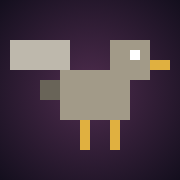
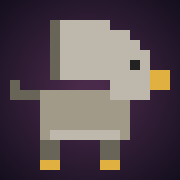
Guardiões com visuais próprios: Grifo (leão-águia), Basilisco (lagarto de cristal), Leviatã (monstro do mar) e Espírito do Vitral (janela colorida)
Claude-Session: https://claude.ai/code/session_01YBA9s8XnYJneddHbd6xUF3

diff --git a/js/02-estado-som-sprites.js b/js/02-estado-som-sprites.js
@@ -1644,6 +1644,82 @@ function enemyRects(shape, c, t, accent) {
         [7, 5, 2, 2, "#fff"],
         [4, 1, 8, 2, "#c9a050"],
       ];
+    case "griffin":
+      // Grifo: corpo de leão, cabeça de águia, asas batendo.
+      return [
+        [0, 7, 1, 1, d],
+        [0, 8, 3, 1, d],
+        [3, 8, 9, 5, c],
+        [4, 12, 7, 1, l],
+        [3, 13, 2, 3, d],
+        [9, 13, 2, 3, d],
+        [3, 15, 2, 1, "#e0b040"],
+        [9, 15, 2, 1, "#e0b040"],
+        f ? [4, 1, 6, 6, l] : [4, 5, 7, 3, l],
+        f ? [4, 1, 1, 6, d] : [4, 7, 7, 1, d],
+        [10, 4, 4, 5, l],
+        [10, 2, 2, 2, l],
+        [12, 3, 1, 1, l],
+        [14, 6, 2, 2, "#e0b040"],
+        [12, 5, 1, 1, "#222"],
+      ];
+    case "basilisk":
+      // Basilisco: lagarto de quatro patas, espinhos e coroa de cristal.
+      return [
+        [0, 10, 2, 2, c],
+        [0, 12, 1, 1, d],
+        [2, 9, 11, 4, c],
+        [3, 12, 9, 1, l],
+        [4, 7, 1, 2, "#e0f6ff"],
+        [7, 6, 1, 3, "#e0f6ff"],
+        [10, 7, 1, 2, "#e0f6ff"],
+        [3, 13, 2, 2 + f, d],
+        [7, 13, 2, 3 - f, d],
+        [10, 13, 2, 2 + f, d],
+        [12, 7, 4, 4, c],
+        [12, 5, 1, 2, "#c9a0ff"],
+        [14, 4, 1, 3, "#c9a0ff"],
+        [14, 8, 1, 1, "#ff3"],
+        [15, 10, 1, 1, "#e44"],
+      ];
+    case "leviathan":
+      // Leviatã: cabeça e pescoço saindo das ondas, barbatanas e tentáculos.
+      return [
+        [1, 10, 2, 3, d],
+        [13, 10, 2, 3, d],
+        [6, 6, 4, 7, c],
+        [3, 8 + f, 3, 2, l],
+        [10, 8 - f, 3, 2, l],
+        [4, 2, 8, 5, c],
+        [2, 1, 2, 3, l],
+        [12, 1, 2, 3, l],
+        [5, 6, 7, 1, d],
+        [6, 7, 1, 1, "#fff"],
+        [9, 7, 1, 1, "#fff"],
+        [5, 3, 1, 1, "#ff5"],
+        [10, 3, 1, 1, "#ff5"],
+        [0, 13, 16, 3, "#3a8ab0"],
+        [1 + f * 2, 13, 3, 1, "#cfeaff"],
+        [9 - f, 13, 3, 1, "#cfeaff"],
+      ];
+    case "stainedglass":
+      // Espírito do Vitral: uma janela colorida com auréola.
+      return [
+        [6, 0, 4, 1, "#fff3b0"],
+        [4, 1, 8, 1, "#3a3048"],
+        [3, 2, 10, 12, "#3a3048"],
+        [4, 3, 4, 4, "#e0306a"],
+        [8, 3, 4, 4, "#4fb8ff"],
+        [4, 7, 4, 4, "#f2c14e"],
+        [8, 7, 4, 4, "#7ad36b"],
+        [4, 11, 8, 2, c],
+        [8, 3, 1, 10, "#1a1424"],
+        [4, 7, 8, 1, "#1a1424"],
+        [7, 4, 2, 2, "#fff"],
+        [2, 6 + f, 1, 3, "#fff3b0"],
+        [13, 6 - f, 1, 3, "#fff3b0"],
+        [5, 14, 6, 1, "#1a1424"],
+      ];
     case "diretor": {
       // Diretor da Academia: capelo de formatura, óculos, barba longa e um grimório na mão.
       const cap = "#1a1430",

diff --git a/js/01-dados.js b/js/01-dados.js
@@ -1680,7 +1680,7 @@ const ENEMIES = {
     weak: ["agua"],
     resist: ["ar", "fogo"],
     cor: "#a29a88",
-    shape: "bird",
+    shape: "griffin",
     boss: true,
     special: "double",
     rune: "ar",
@@ -1738,7 +1738,7 @@ const ENEMIES = {
     weak: [],
     resist: [],
     cor: "#c9a0ff",
-    shape: "ghost",
+    shape: "stainedglass",
     boss: true,
     special: "regen",
   },
@@ -1820,7 +1820,7 @@ const ENEMIES = {
     weak: [],
     resist: [],
     cor: "#7fd0ff",
-    shape: "serpent",
+    shape: "basilisk",
     boss: true,
     special: "harden",
   },
@@ -1832,7 +1832,7 @@ const ENEMIES = {
     weak: [],
     resist: [],
     cor: "#2a5a8a",
-    shape: "serpent",
+    shape: "leviathan",
     boss: true,
     special: "regen",
   },
